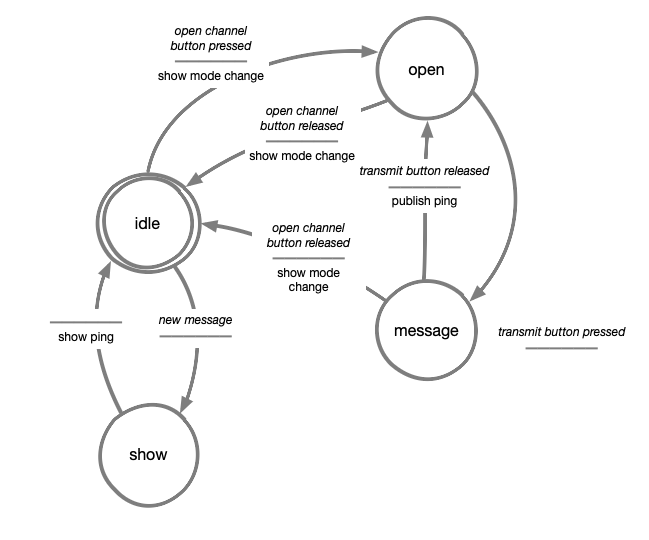
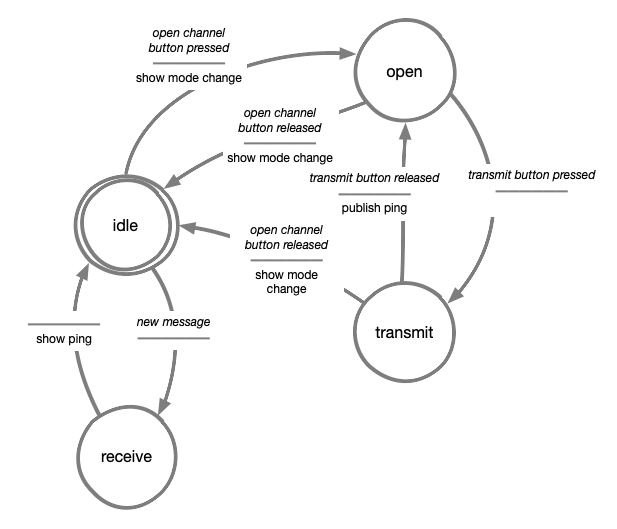
Final assigment tweaking

diff --git a/assignments/05-walkie-talkie/index.md b/assignments/05-walkie-talkie/index.md
@@ -46,9 +46,9 @@ from settings import settings
 
 ##--- Defining states
 state_idle = 0
-state_receiving = 1
+state_receive = 1
 state_channel_open = 2
-state_transmitting = 3
+state_transmit = 3
 
 current_state = 0
 
@@ -63,20 +63,7 @@ open_channel_button.direction = digitalio.Direction.INPUT
 speak_channel_pin = board.D7
 speak_button = digitalio.DigitalInOut(speak_channel_pin)
 speak_button.direction = digitalio.Direction.INPUT
-speak_button_released = True
 
-def is_speak_button_pressed():
-    global speak_button_released
-    
-    if speak_button.value is True and speak_button_released is True:
-        speak_button_released = False
-        return True
-    
-    if speak_button.value is False:
-        speak_button_released = True 
-    
-    return False
-        
 ##-- Led variables
 pin_leds = board.D3
 num_leds = 1
@@ -166,33 +153,16 @@ while True:
     # Use this method to publish messages on a topic:
     # mqtt_client.publish(mqtt_speak_topic, message)
 
-    # ----------------------------------------------------------------| 
-    #                                                                 | 
-    # Use the Acting Machine Diagram to program your solution here    | 
+    # ----------------------------------------------------------------|
+    #                                                                 |
+    # Use the Acting Machine Diagram to program your solution here    |
     #                                                                 |
     # Hint: Use of the "device_has_received_new_value" variable       |
-    # Hint: Use is_speak_button_pressed() to check the                |
-    #       speak button is pressed.                                  | 
+    #       Use the open_channel_button and speak_button variables    |
+    #       Use the led variable (copied from the reation game code)  |
     # ----------------------------------------------------------------|
 
-    if current_state is state_idle:
-        set_led_color(led_off)
 
-        if device_has_received_new_value is True:
-            current_state = state_receiving
-
-        elif open_channel_button.value is True:
-            current_state = state_channel_open
-
-    elif current_state is state_receiving:
-        set_led_color(led_red)
-
-        # TODO:
-        # - Trigger actuator
-        # - Check if device has NOT received new value -> state_idle
-
-
-    # TODO: Fill in the other states and transitions.
 
     # ----------------------------------------------
     # v DO NOT CHANGE ANYTHING BELOW THIS POINT v  |
